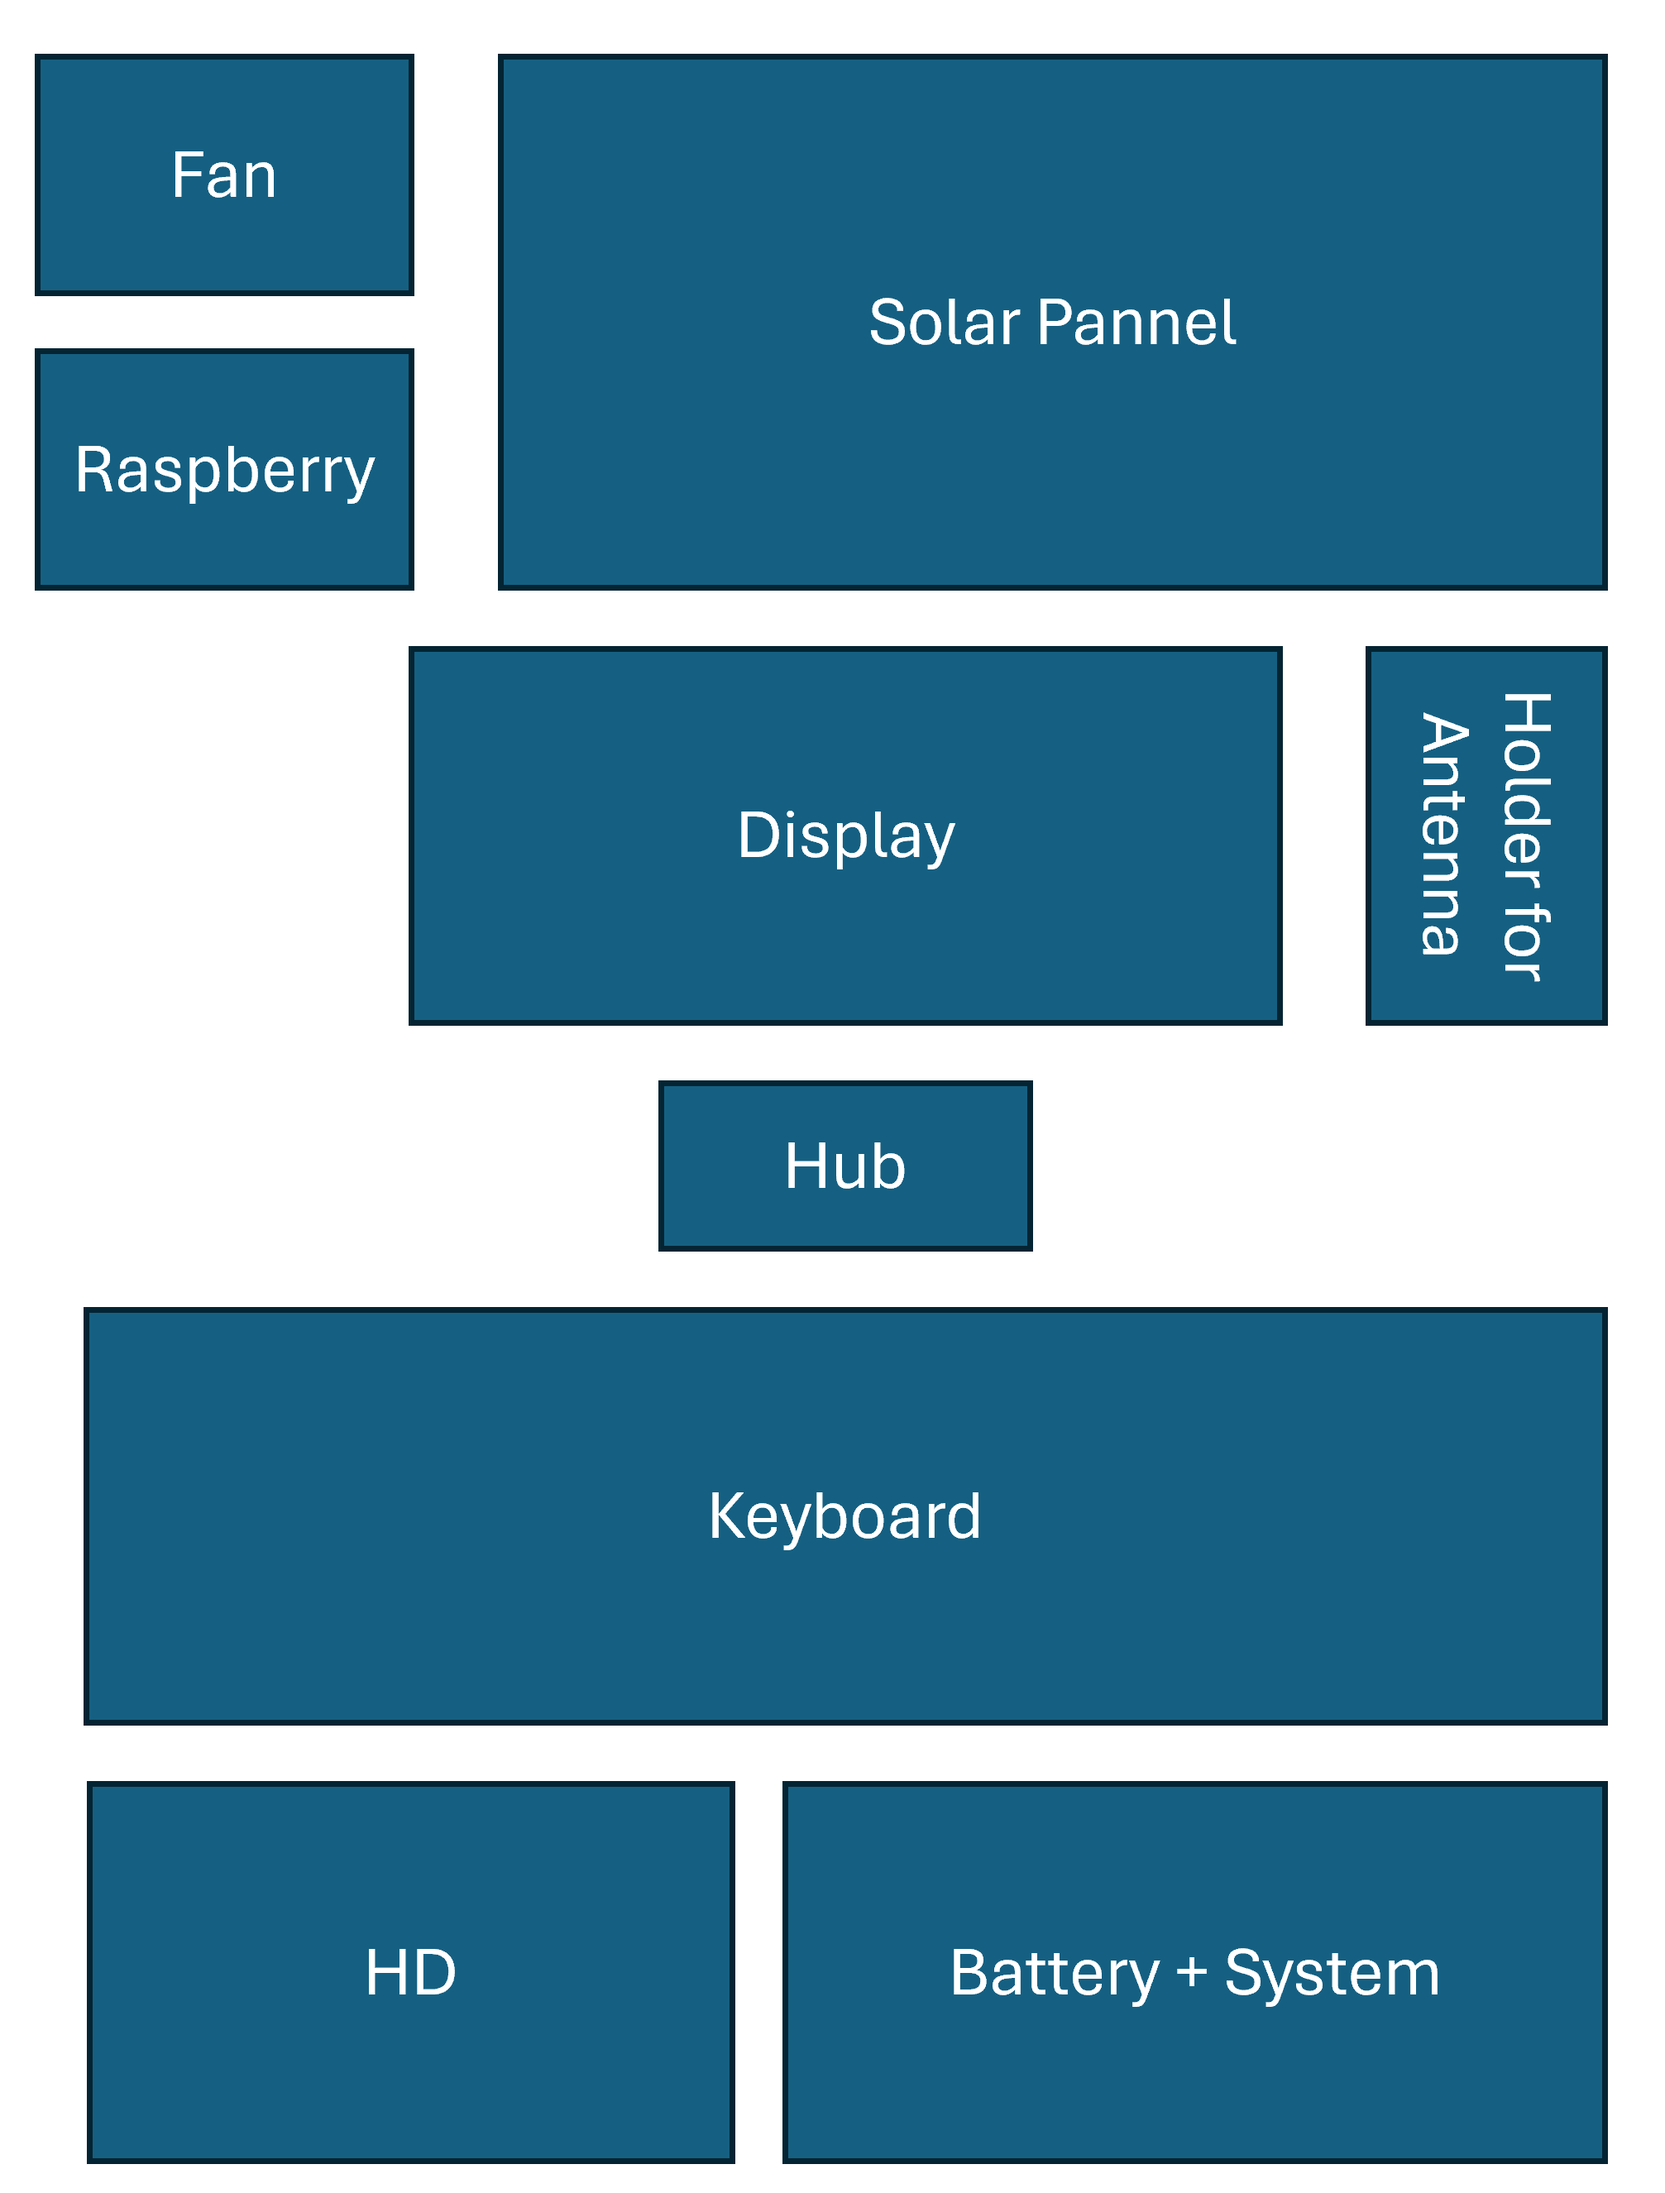
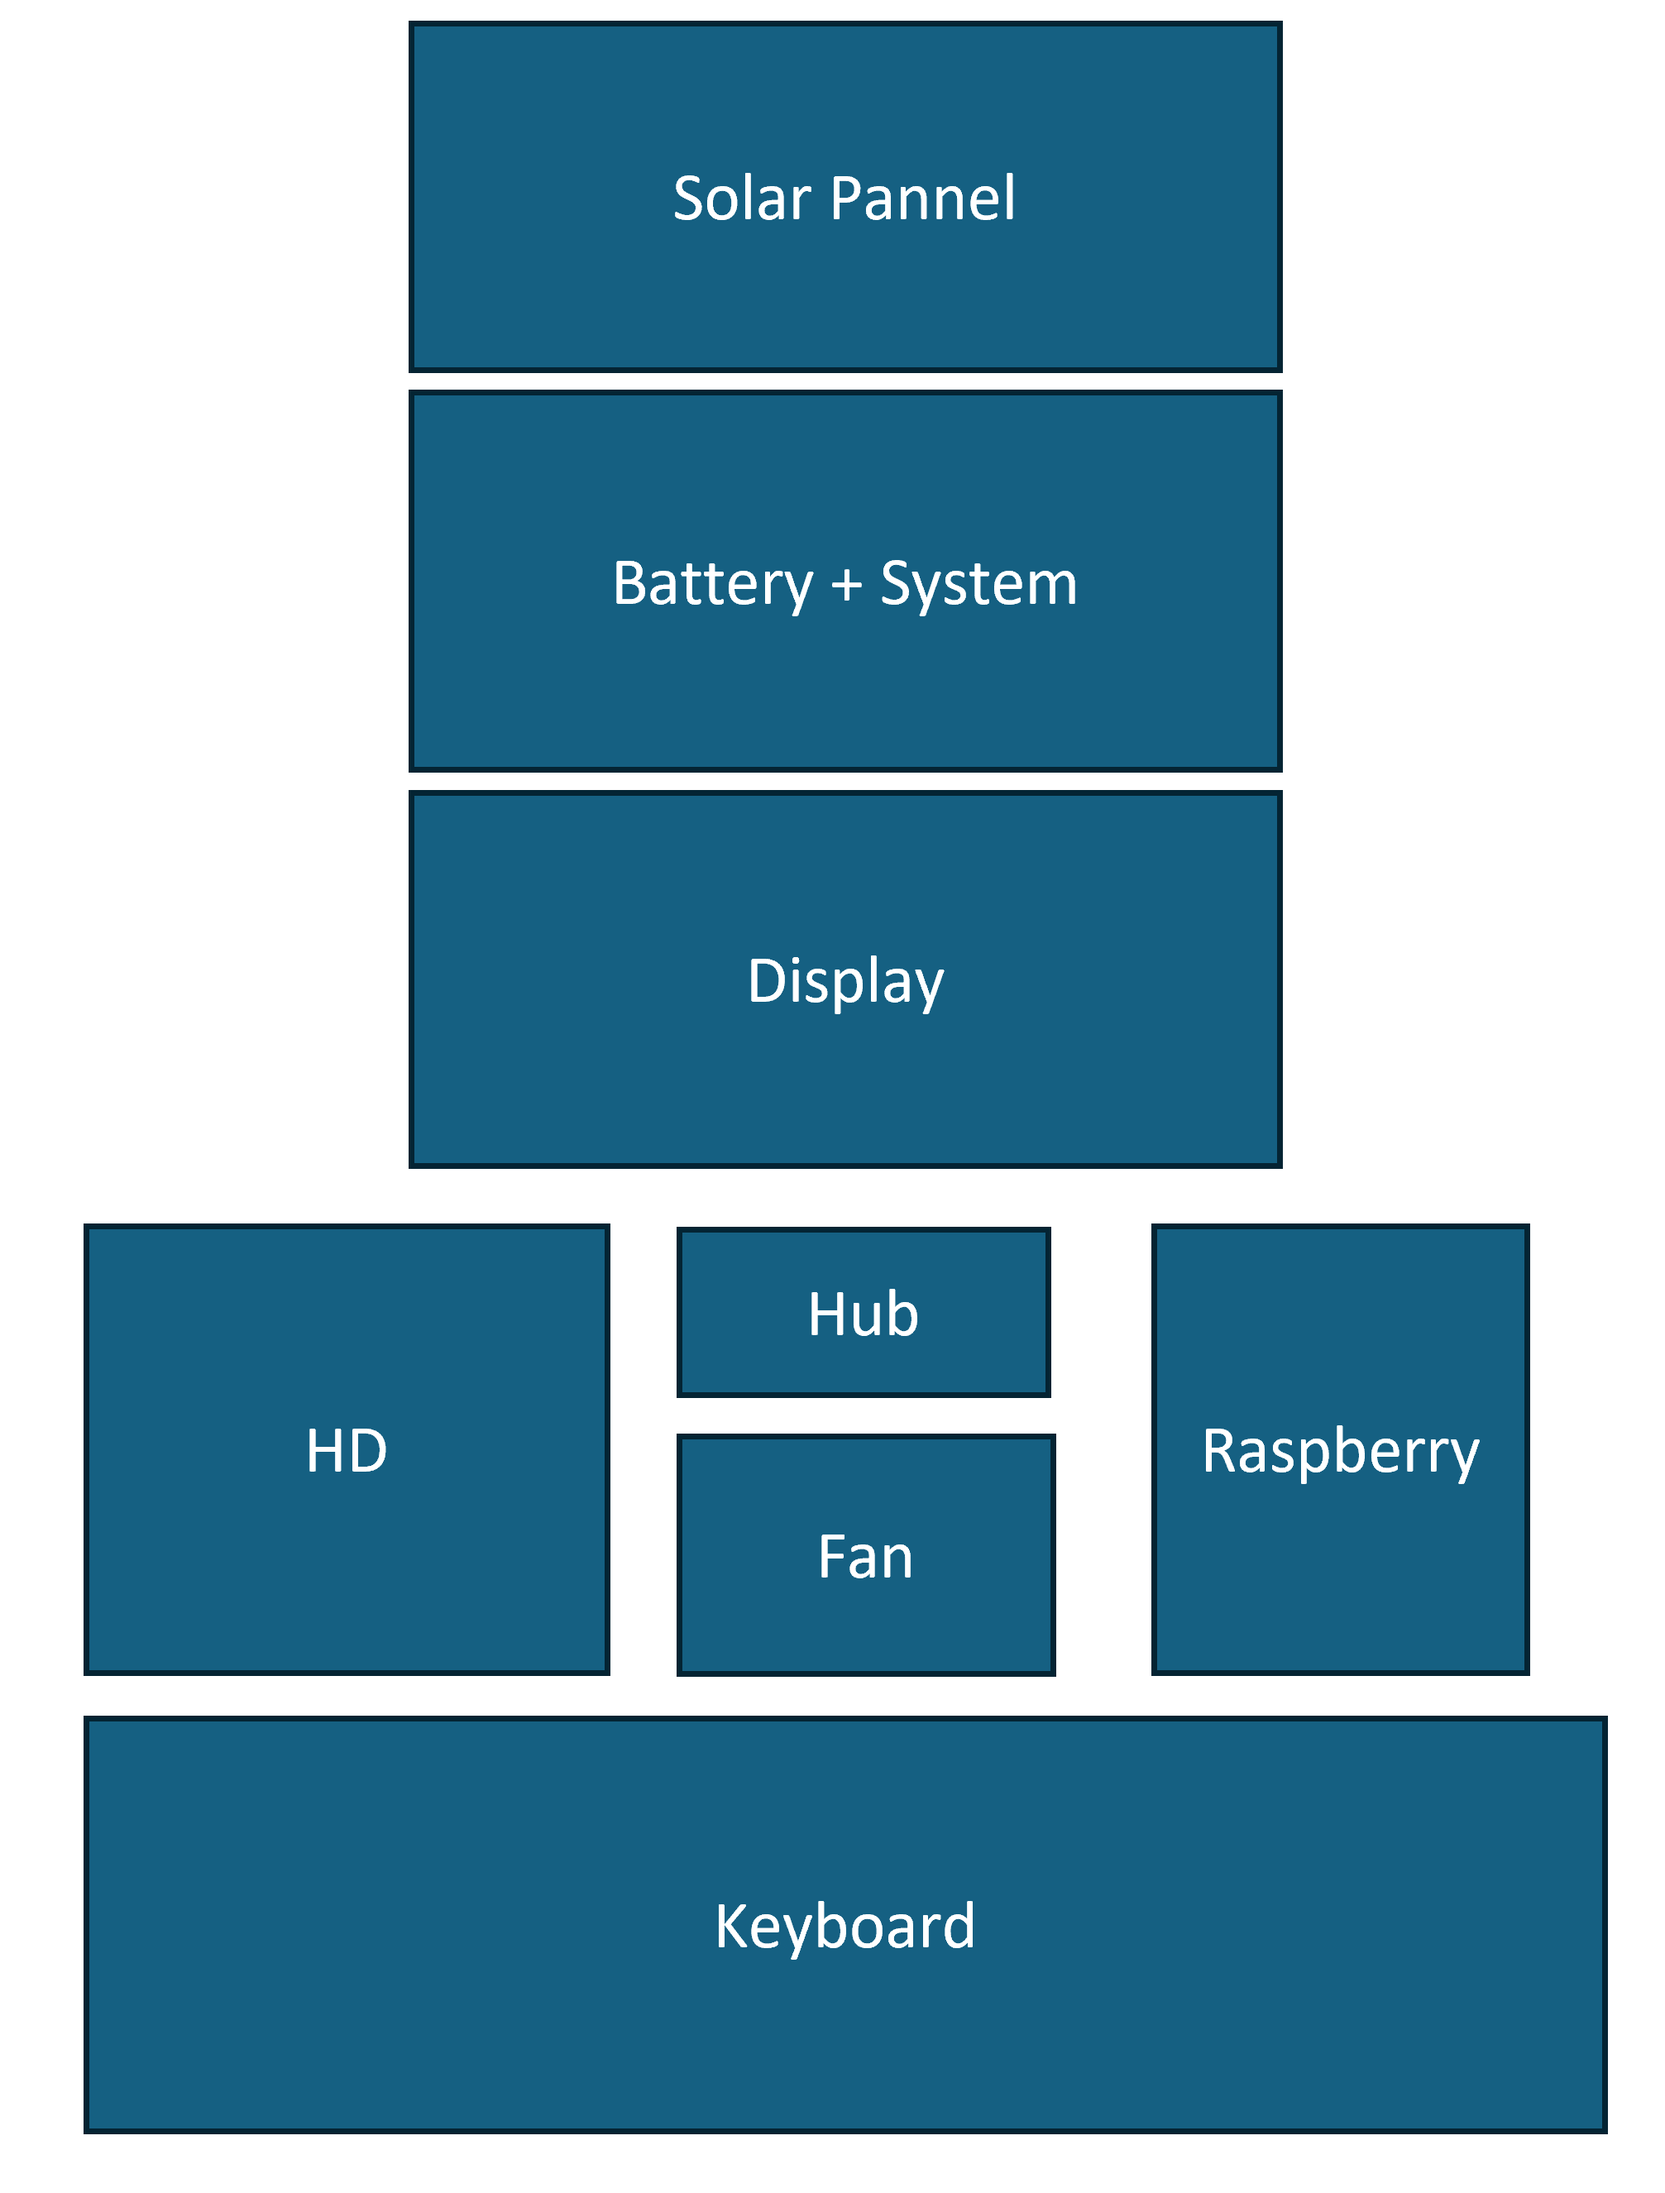
Changes in the mechanical block diagram

diff --git a/README.md b/README.md
@@ -18,6 +18,7 @@ A CyberDeck inspired on the Solar Punk theme
     - [Electronics](#electronics)
     - [Architecture](#architecture)
     - [Bill of Materials](#bill-of-materials)
+  - [Solarpunk Industrial Design](#solarpunk-industrial-design)
 
 ---
 
@@ -117,3 +118,10 @@ The purpose of this is to have a distinct portable computer to take to the field
 | Solar USB Charger Controller                     | 2.32       |
 | 1 kg 3D Printer filament                         | 13.99      |
 |**Total**                                       |  **336.81**    |
+
+## Solarpunk Industrial Design
+
+* **Color pallete:** Light and dark green; solar pannel blue.
+* **Materials**: PLA.
+* **Texture Language**: Leaves
+* 

diff --git a/docs/todos.md b/docs/todos.md
@@ -103,7 +103,7 @@ Design the cyberdeck as a complete system.
 ### Purchasing
 
 * - [X] Create parts spreadsheet
-* - [ ] Order components
+* - [X] Order components
 
 ### Deliverables
 
@@ -122,9 +122,9 @@ Develop the visual identity before designing the enclosure.
 
 ### Tasks
 
-* - [ ] Define color palette
-* - [ ] Select materials
-* - [ ] Define texture language
+* - [X] Define color palette
+* - [X] Select materials
+* - [X] Define texture language
 * - [ ] Sketch exterior
 * - [ ] Sketch interior layout
 * - [ ] Determine ergonomic angles
